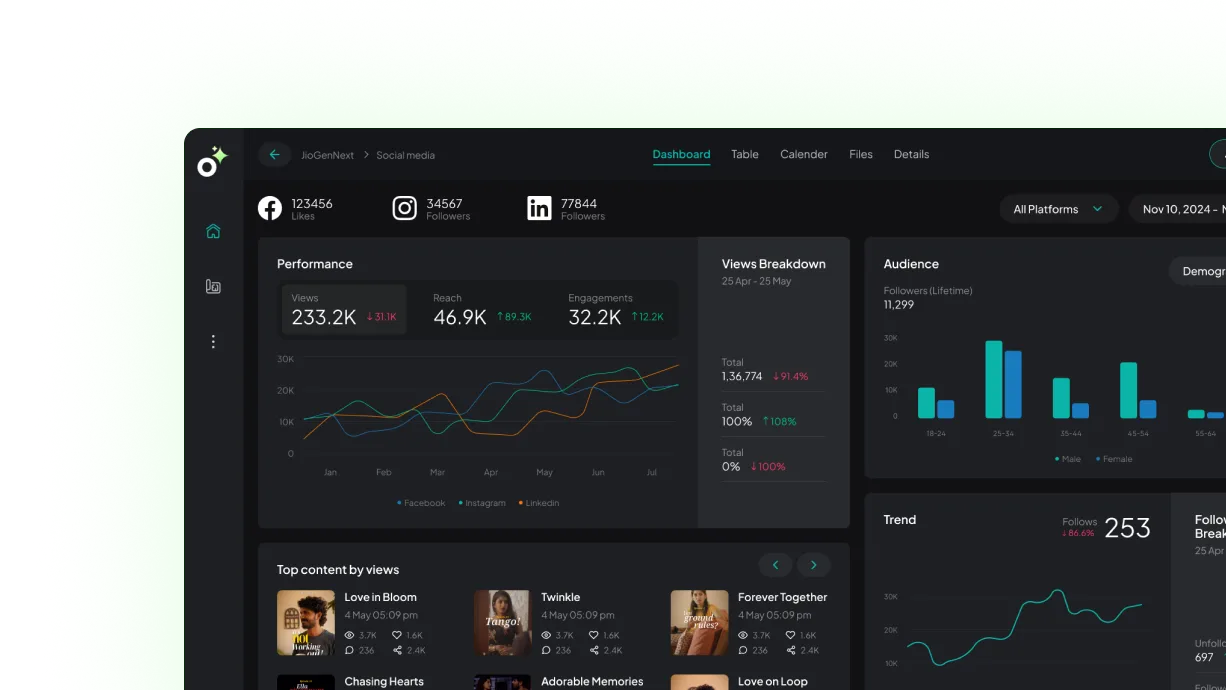
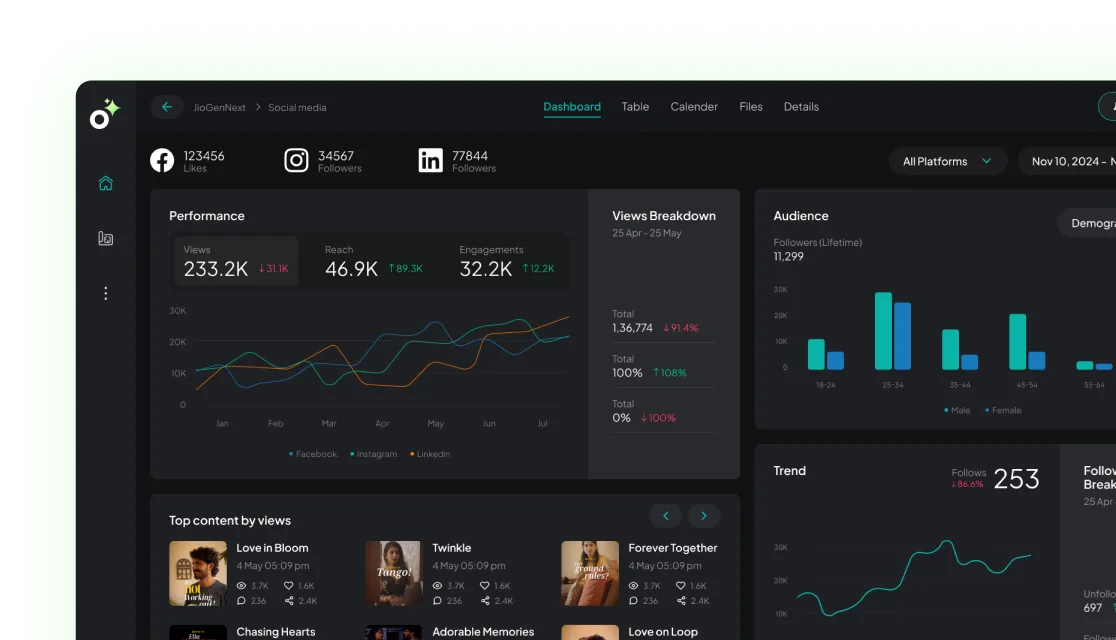
ready for review

diff --git a/app/components/header.js b/app/components/header.js
@@ -1,20 +1,52 @@
 "use client";
-import { useState, useRef } from "react";
+import { useState, useEffect, useRef } from "react";
 import Link from "next/link";
 import Image from "next/image";
 
 export default function Header() {
   const [isOpen, setIsOpen] = useState(false);
+  const [activeSection, setActiveSection] = useState("");
   const menuRef = useRef(null);
   const buttonRef = useRef(null);
 
+  useEffect(() => {
+    document.body.style.overflow = isOpen ? "hidden" : "auto";
+  }, [isOpen]);
+
+  useEffect(() => {
+    const sections = document.querySelectorAll("section[id]");
+    const handleScroll = () => {
+      let current = "";
+      sections.forEach((section) => {
+        const sectionTop = section.offsetTop - 100;
+        if (window.scrollY >= sectionTop) {
+          current = `#${section.getAttribute("id")}`;
+        }
+      });
+      setActiveSection(current);
+    };
+
+    window.addEventListener("scroll", handleScroll);
+    handleScroll();
+    return () => window.removeEventListener("scroll", handleScroll);
+  }, []);
+
+  const links = [
+    { href: "#features", label: "Features" },
+    { href: "#how", label: "How it Works" },
+    { href: "#testimonials", label: "Testimonials" },
+  ];
+
+  const handleOverlayClick = (e) => {
+    if (e.target === e.currentTarget) setIsOpen(false);
+  };
+
   return (
-    <header className="fixed top-0 left-0 w-full z-50 lg:bg-bg-primary/80 lg:backdrop-blur-md border-transparent">
-      
+    <header className="fixed top-0 left-0 w-full z-50 lg:bg-bg-primary/80 lg:backdrop-blur-md border-transparent h-[75px]">
+
       <div className="absolute bottom-0 left-0 w-full h-[1px] lg:bg-gradient-to-r from-transparent via-white/20 to-transparent pointer-events-none"></div>
 
       <div className="max-w-7xl mobile-bg mx-auto px-6 py-4 flex items-center justify-between relative">
-        
         <Link href="/" className="flex items-center">
           <Image
             src="/logo.svg"
@@ -26,20 +58,23 @@ export default function Header() {
           />
         </Link>
 
-        {/* Desktop Navigation */}
+        {/* Desktop */}
         <nav className="hidden lg:flex items-center gap-10 text-slate-300 lg:pl-40">
-          <Link href="#features" className="text-lg hover:text-white transition">
-            Features
-          </Link>
-          <Link href="#how" className="text-lg hover:text-white transition">
-            How it Works
-          </Link>
-          <Link href="#testimonials" className="text-lg hover:text-white transition">
-            Testimonials
-          </Link>
+          {links.map((link) => (
+            <Link
+              key={link.href}
+              href={link.href}
+              className={`text-lg transition ${
+                activeSection === link.href
+                  ? "text-white font-semibold"
+                  : "hover:text-white"
+              }`}
+            >
+              {link.label}
+            </Link>
+          ))}
         </nav>
 
-        {/* Desktop Buttons */}
         <div className="hidden lg:flex items-center gap-4">
           <Link
             href="#book"
@@ -49,7 +84,6 @@ export default function Header() {
               <span className="transition-transform duration-300 translate-x-4 group-hover:-translate-x-0">
                 Book a Demo
               </span>
-
               <span className="inline-block overflow-hidden w-5">
                 <svg
                   xmlns="http://www.w3.org/2000/svg"
@@ -73,7 +107,6 @@ export default function Header() {
               <span className="transition-transform duration-300 translate-x-4 group-hover:-translate-x-0">
                 Login
               </span>
-
               <span className="inline-block overflow-hidden w-5">
                 <svg
                   xmlns="http://www.w3.org/2000/svg"
@@ -90,11 +123,15 @@ export default function Header() {
           </Link>
         </div>
 
-        {/* Mobile Menu Toggle */}
+        {/* Mobile Toggle */}
         <button
           ref={buttonRef}
           onClick={() => setIsOpen(!isOpen)}
-          className="lg:hidden text-slate-200 z-50"
+          className={`lg:hidden z-50 transition-colors duration-300 ${
+            isOpen
+              ? "text-white rounded-full" 
+              : "text-slate-200"
+          }`}
           aria-label="Toggle menu"
         >
           <svg
@@ -126,39 +163,70 @@ export default function Header() {
       {/* Mobile Menu */}
       <div
         ref={menuRef}
-        className={`lg:hidden bg-bg-primary transition-all duration-300 ease-in-out ${isOpen
-            ? "opacity-100 translate-y-0 visible"
-            : "opacity-0 -translate-y-2 invisible"
-          }`}
+        onClick={handleOverlayClick} 
+        className={`lg:hidden fixed inset-0 z-40 transition-all duration-300 ease-in-out ${
+          isOpen
+            ? "visible opacity-100 backdrop-blur-md bg-black/50"
+            : "invisible opacity-0 backdrop-blur-0"
+        }`}
       >
+        <div
+          className={`absolute top-0 right-0 w-[80%] h-[80vh] bg-bg-primary rounded-bl-3xl shadow-2xl flex flex-col justify-between transition-transform duration-300 ease-in-out ${
+            isOpen ? "translate-y-0" : "-translate-y-5"
+          }`}
+        >
+          <div className="flex items-center justify-between px-6 py-4 border-b border-white/10">
+            <Link
+              href="/"
+              onClick={() => setIsOpen(false)}
+              className="flex items-center"
+            >
+              <Image
+                src="/logo.svg"
+                alt="Panlo Logo"
+                width={120}
+                height={40}
+                className="h-10 w-auto"
+                priority
+              />
+            </Link>
+          </div>
 
-        <div className="absolute top-0 left-0 w-full h-[1px] bg-gradient-to-r from-transparent via-white/20 to-transparent pointer-events-none"></div>
+          <div className="px-6 pt-6 flex flex-col gap-6 text-slate-200 flex-grow">
+            {links.map((link) => (
+              <Link
+                key={link.href}
+                href={link.href}
+                onClick={() => setIsOpen(false)}
+                className={`text-lg transition ${
+                  activeSection === link.href
+                    ? "text-white font-semibold"
+                    : "hover:text-white"
+                }`}
+              >
+                {link.label}
+              </Link>
+            ))}
+          </div>
 
-        <div className="px-6 py-4 flex flex-col gap-4 text-slate-200">
-          <Link href="#features" onClick={() => setIsOpen(false)} className="hover:text-white">
-            Features
-          </Link>
-          <Link href="#how" onClick={() => setIsOpen(false)} className="hover:text-white">
-            How it Works
-          </Link>
-          <Link href="#testimonials" onClick={() => setIsOpen(false)} className="hover:text-white">
-            Testimonials
-          </Link>
-          <Link
-            href="#book"
-            onClick={() => setIsOpen(false)}
-            className="mt-3 inline-block text-xs font-semibold px-5 py-2 rounded-full text-black bg-gradient-to-r from-primary to-secondary text-center"
-          >
-            Book a Demo
-          </Link>
-          <Link
-            href="#login"
-            onClick={() => setIsOpen(false)}
-            className="inline-block px-5 py-2 text-xs font-semibold rounded-full font-medium border border-secondary text-secondary text-center"
-          >
-            Login
-          </Link>
+          <div className="p-6 flex flex-col gap-3">
+            <Link
+              href="#book"
+              onClick={() => setIsOpen(false)}
+              className="w-full text-center py-3 rounded-full bg-gradient-to-r from-primary to-secondary text-black font-semibold"
+            >
+              Book a Demo
+            </Link>
+            <Link
+              href="#login"
+              onClick={() => setIsOpen(false)}
+              className="w-full text-center py-3 rounded-full border border-secondary text-secondary font-semibold"
+            >
+              Login
+            </Link>
+          </div>
         </div>
+
       </div>
     </header>
   );

diff --git a/app/components/section_insights.js b/app/components/section_insights.js
@@ -140,7 +140,7 @@ export default function SectionInsights() {
       <div className="max-w-7xl mx-auto space-y-16">
 
         <h2 className="text-4xl lg:text-[56px] font-bold leading-tight text-center opacity-90">
-          <span className="text-secondary">Insights</span> That<span className="line-break"> Work Harder</span>
+          <span className="text-secondary">Insights</span> that<span className="line-break"> Work Harder</span>
         </h2>
 
         {/* ROW 1 */}
@@ -161,7 +161,7 @@ export default function SectionInsights() {
               AI Marketing Intelligence
             </h3>
             <p className="font-medium text-gray-400 leading-relaxed text-center md:text-left">
-              Past performance decoded into actionable next steps.
+              Past performance decoded into <span className="line-break">actionable next steps.</span>
             </p>
           </div>
         </div>
@@ -179,11 +179,11 @@ export default function SectionInsights() {
           </div>
 
           <div className="text-block space-y-4 opacity-0 order-2 md:order-1">
-            <h3 className="text-2xl lg:text-[32px] font-bold text-white text-center md:text-left">
-              One Dashboard to Rule<br /> Them All
+            <h3 className="text-2xl lg:text-[32px] font-bold text-white text-center md:text-left lg:pr-10">
+              One Dashboard to <span className="line-break">Rule Them All</span>
             </h3>
             <p className="font-medium text-gray-400 leading-relaxed text-center md:text-left">
-              Compare iterations like a design time traveler.
+              Compare iterations like a <span className="line-break">design time traveler.</span>
             </p>
           </div>
         </div>

diff --git a/app/components/section_CTA.js b/app/components/section_CTA.js
@@ -40,11 +40,11 @@ export default function SectionCTA() {
   return (
     <section className="bg-bg-primary text-white py-0 md:py-5 px-4 pb-15 md:pb-20">
       <div ref={sectionRef} className="origin-center max-w-7xl mx-auto">
-        <div className="bg-gradient-to-r from-secondary to-primary rounded-2xl overflow-hidden grid md:grid-cols-[1fr_2fr] items-center p-10 pt-0 pr-0 pb-0 gap-6">
+        <div className="bg-gradient-to-r from-secondary to-primary rounded-2xl overflow-hidden grid md:grid-cols-[1.5fr_2fr] items-center p-10 pt-0 pr-0 pb-0 gap-6">
 
-          <div className="space-y-6 pt-8 md:pb-10">
-            <h2 className="text-4xl md:text-[50px] font-bold leading-tight text-black">
-              Where creativity<br />meets clarity.
+          <div className="space-y-6 pt-8 md:pb-10 pr-10 md:pr-0">
+            <h2 className="text-4xl md:text-3xl lg:text-[50px] font-bold leading-tight text-black">
+              Where Creativity<br />Meets Clarity.
             </h2>
 
             <Link
@@ -73,7 +73,7 @@ export default function SectionCTA() {
             </Link>
           </div>
 
-          <div className="flex justify-end relative w-full h-auto md:mt-40 lg:mt-0">
+          <div className="flex justify-end relative w-full h-auto md:mt-15 lg:mt-0">
             <Image
               src="/images/dashboard-preview.webp"
               alt="Dashboard preview"

diff --git a/app/components/section_features.js b/app/components/section_features.js
@@ -59,7 +59,7 @@ export default function SectionFeatures() {
     <section
       id="features"
       ref={sectionRef}
-      className="origin-center bg-bg-primary text-white pt-0 md:pt-15 py-15 md:py-20 px-4 will-change-transform"
+      className="origin-center bg-bg-primary text-white pt-20 md:pt-25 py-15 md:py-20 px-4 will-change-transform"
     >
       <div className="max-w-7xl mx-auto space-y-10">
 
@@ -67,7 +67,7 @@ export default function SectionFeatures() {
         <div className="cont-1 bg-bg-tertiary rounded-2xl p-8 pr-0 lg:p-10 lg:pr-0 grid grid-cols-1 lg:grid-cols-[1fr_2.5fr] gap-8 lg:gap-10 items-center opacity-0 translate-y-20">
           <div className="space-y-5 text-left pr-8 lg:pr-0">
             <h2 className="text-4xl lg:text-[56px] font-bold leading-tight">
-              Less mess. <span className="text-secondary">More magic</span>
+              Less Mess. <span className="text-secondary">More Magic</span>
             </h2>
             <p className="text-gray-400/90 font-medium text-base leading-relaxed">
               Creative chaos is real. Feedback scattered across emails, chats, screenshots

diff --git a/app/components/footer.js b/app/components/footer.js
@@ -1,4 +1,5 @@
 import Image from "next/image";
+import Link from "next/link";
 
 export default function Footer() {
   return (
@@ -6,14 +7,16 @@ export default function Footer() {
       <div className="max-w-7xl mx-auto space-y-10">
         <div className="flex flex-col md:flex-row items-center justify-between gap-6">
           <div className="flex-shrink-0">
-            <Image
-              src="/logo.svg"
-              alt="Panlo logo"
-              width={128}
-              height={40}
-              className="w-28 md:w-32 h-auto"
-              priority
-            />
+            <Link href="/" className="flex items-center">
+              <Image
+                src="/logo.svg"
+                alt="Panlo Logo"
+                width={120}
+                height={40}
+                className="w-28 md:w-32 h-auto"
+                priority
+              />
+            </Link>
           </div>
 
           <div className="flex gap-8 text-sm md:text-base font-medium">

diff --git a/app/components/section_testimonials.js b/app/components/section_testimonials.js
@@ -126,9 +126,9 @@ export default function SectionTestimonials() {
     >
       <div className="max-w-7xl mx-auto text-center space-y-12 relative">
 
-        <h2 className="text-3xl sm:text-4xl md:text-[56px] font-bold leading-tight">
-          Trusted by teams who value <br className="hidden sm:block" />
-          <span className="text-secondary">clarity with creativity</span>
+        <h2 className="text-4xl lg:text-[56px] font-bold leading-tight">
+          Trusted by Teams who Value <br className="hidden sm:block" />
+          <span className="text-secondary">Clarity with Creativity</span>
         </h2>
 
         <div className="hidden lg:block absolute left-0 top-0 h-full w-32 xl:w-40 bg-gradient-to-r from-bg-primary via-bg-primary/90 to-transparent pointer-events-none z-20"></div>

diff --git a/app/components/section_video.js b/app/components/section_video.js
@@ -28,7 +28,7 @@ export default function SectionVideo() {
   return (
     <section
       ref={sectionRef}
-      className="origin-center bg-bg-primary text-white pt-7 md:pt-10 pb-20 px-4 lg:px-0 opacity-0 translate-y-20 will-change-transform"
+      className="origin-center bg-bg-primary text-white pt-7 md:pt-10 pb-10 md:pb-15 px-4 lg:px-0 opacity-0 translate-y-20 will-change-transform"
     >
       <div className="max-w-7xl mx-auto">
         <div className="video-br relative w-full overflow-hidden rounded-2xl p-[6px] bg-gradient-to-r from-primary via-primary to-primary shadow-[0_0_64px_-1px_#0AB5A940]">

diff --git a/app/components/ComponentCustomJSON/section_how_it_works_3.js b/app/components/ComponentCustomJSON/section_how_it_works_3.js
@@ -146,7 +146,7 @@ export default function SectionHowItWorks_3() {
         className="origin-center relative z-10 mt-[160px] sm:mt-[120px] md:mt-[150px] lg:mt-[180px] flex flex-col items-center text-center space-y-4 w-full max-w-[900px] px-6"
       >
         <h2 className="text-2xl lg:text-[40px] font-bold text-white">
-          Sync & Strategize
+          Sync & Strategise
         </h2>
         <p className="text-gray-300 text-base font-medium">
           Insights + approvals aligned. Ready to ship.

diff --git a/app/components/decor_star.js b/app/components/decor_star.js
@@ -36,9 +36,9 @@ export default function DecorStar({
         defaults: { ease: "sine.inOut" },
       });
 
-      tl.to(el, { rotate: -90, scale: 1.125, duration: 2 })
+      tl.to(el, { rotate: -90, scale: 1.4, duration: 2 })
         .to(el, { rotate: 90, scale: 0.875, duration: 2 })
-        .to(el, { rotate: -90, scale: 1.125, duration: 2 })
+        .to(el, { rotate: -90, scale: 1.4, duration: 2 })
         .to(el, { rotate: 90, scale: 0.875, duration: 2 });
     }
 
